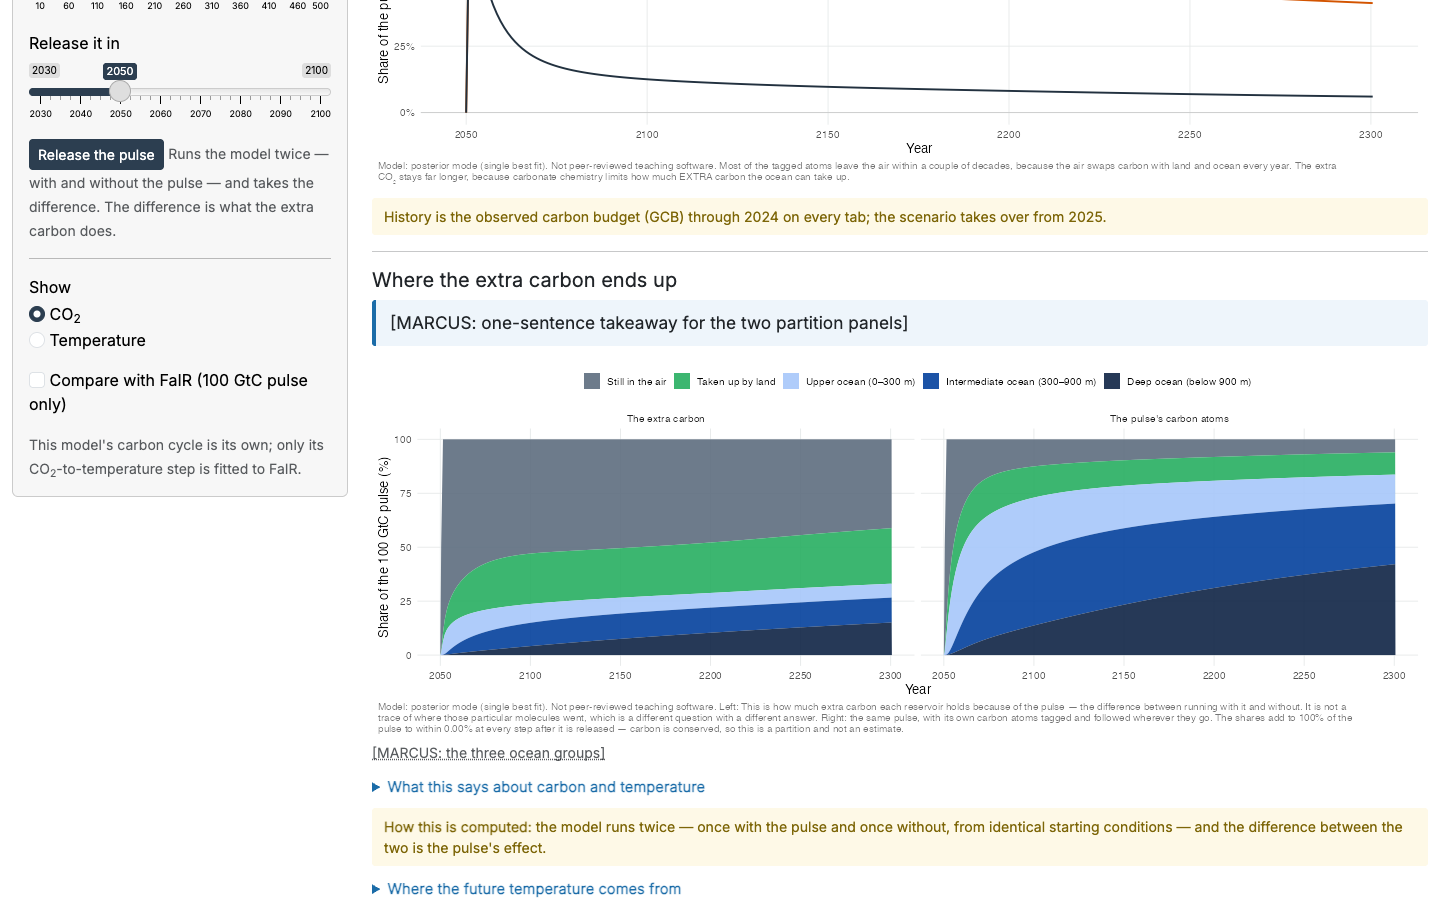
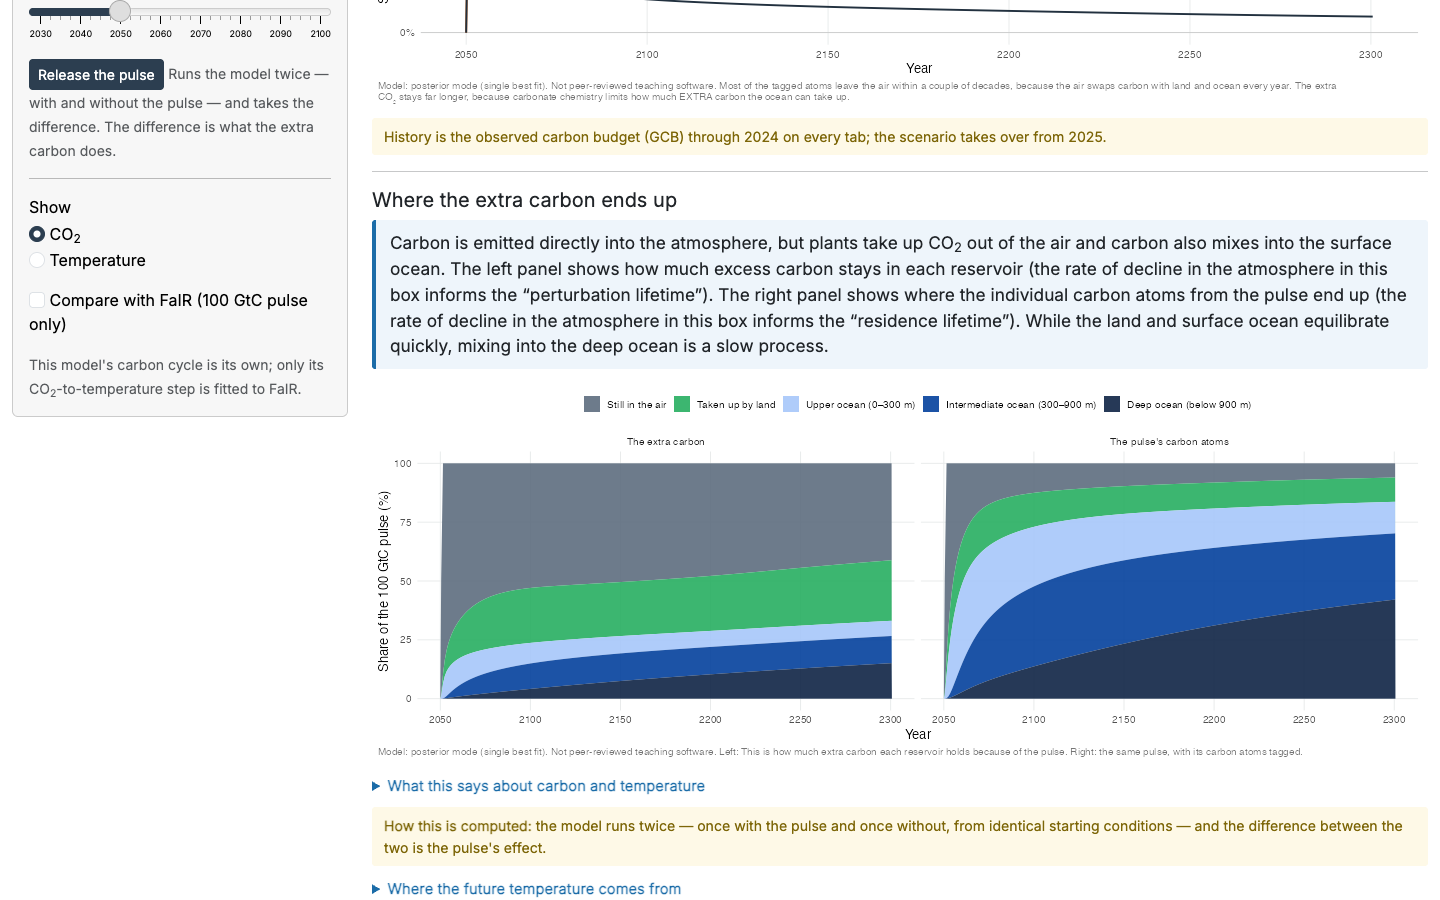
Ocean-depth legend keys approved as drafted (Marcus 2026-10-16); record README and screenshots at cd7a1c9
- app/R/plots.R: the KEY_OCEAN_*_FMT comment records "Keys are fine as drafted"
- test-app-review-copy.R: AC_CHECKS_1016 pins the three keys (88 / 0)
- outputs/diagnostics/pulse_ocean_depth_20261016/: README for his copy and the closure refusal;
  both screenshots retaken at cd7a1c9 (his takeaway, the shorter caption)

diff --git a/outputs/diagnostics/pulse_ocean_depth_20261016/README.md b/outputs/diagnostics/pulse_ocean_depth_20261016/README.md
@@ -2,7 +2,8 @@
 
 The Pulse lab's two partition panels (the extra carbon; the pulse's tagged carbon atoms) now split the
 ocean into three groups built from the model's existing boxes. Display only: no model, parameter or
-calibration change. Code: `app/R/ocean_depth.R`, `app/R/plots.R` `plot_pulse_partition()`; commit `db0d5c4`.
+calibration change. Code: `app/R/ocean_depth.R`, `app/R/plots.R` `plot_pulse_partition()`; commits `db0d5c4`
+(build) and `cd7a1c9` (Marcus's copy). The numbers below were made at `db0d5c4`; `cd7a1c9` changed copy only.
 
 ## Marcus's rulings (2026-10-16)
 
@@ -58,7 +59,7 @@ intermediate at +20 is 21.95 + 0.1827 × 6.94 = 23.22, against 23.21 here. Its o
 ocean, which is why its quoted intermediate and deep figures (22 / 33 / 26 and 8 / 26 / 44) differ from
 the table here.
 
-## Checks (all in `tests/testthat/test-pulse-ocean-depth.R`, 60 expectations)
+## Checks (all in `tests/testthat/test-pulse-ocean-depth.R`, 66 expectations)
 
 - The weights partition the ocean: every ocean box's weights sum to 1 and no other box has one.
   A box left out is refused by name.
@@ -69,7 +70,10 @@ the table here.
   (months × substeps × machine epsilon). An off-by-one instant (1.5e-3) and a stale T_deep (4.5e-4) both
   fail the bound. `app_pulse_depth_runs()` refuses to draw a chain that fails it.
 - The plotted shares close to 100 % after the release: the tagged panel within the decay undo's
-  second-order term (λ²Δ²/8 = 1.85e-9), the extra panel within roundoff.
+  second-order term (λ²Δ²/8 = 1.85e-9), the extra panel within roundoff. Since Marcus cut the closure
+  sentence from the caption, the panel refuses to draw when a panel misses its bound. Over the sliders'
+  extremes (vvVL / vvM / vvH, 2030–2100, 10–500 GtC) the residual is at most 0.22 of its bound; a
+  1e-6 leak is refused.
 - The five fills, composited at the bands' 0.9 alpha over white, clear `tools/palette_check.py`'s
   target of 8. The worst pair is 14.1 (intermediate / deep) and ColorBrewer's Blues triple fails (3.4).
 - The legend's row count is chosen by measuring the keys against the panel width. It has 1 row at
@@ -79,17 +83,17 @@ the table here.
 ## Screenshots
 
 `screenshot_1440x900_pulse_partition.png` and `screenshot_768x1024_pulse_partition.png`: the app at
-`db0d5c4`, Pulse lab defaults, captured with `shoot_app.py` (headless Chrome through the DevTools
-protocol, Python standard library only). The partition panel appeared 4.0 s after the click at both
-widths. The bracketed lines are placeholders for Marcus.
+`cd7a1c9` (with Marcus's copy), Pulse lab defaults, captured with `shoot_app.py` (headless Chrome through
+the DevTools protocol, Python standard library only). The partition panel appeared 4.0 s after the click
+at both widths.
 
-## Owed by Marcus (placeholders, `app/R/plots.R`)
+## Copy (Marcus, 2026-10-16)
 
-- `PULSE_DEPTH_TAKEAWAY`: the one-sentence takeaway over the two panels.
-- `PULSE_DEPTH_GLOSS` and `PULSE_DEPTH_GLOSS_TIP`: the line under the panels and its tooltip.
-- `KEY_OCEAN_UPPER_FMT`, `KEY_OCEAN_MID_FMT`, `KEY_OCEAN_DEEP_FMT`: the three legend keys (drafts).
-
-`app/make_deploy_bundle.sh` refuses to build a bundle while any placeholder is in `app/`.
+His takeaway paragraph sits over both panels (`PULSE_DEPTH_TAKEAWAY`). The caption is cut to "Left: This
+is how much extra carbon each reservoir holds because of the pulse. Right: the same pulse, with its carbon
+atoms tagged." He judged the three ocean bands to need no separate line, so the placeholder line and its
+tooltip are gone. The three legend keys (`KEY_OCEAN_*_FMT`) stay as drafted ("Keys are fine as drafted").
+No bracketed placeholder remains, so `app/make_deploy_bundle.sh` no longer refuses.
 
 ## Reproduce
 
